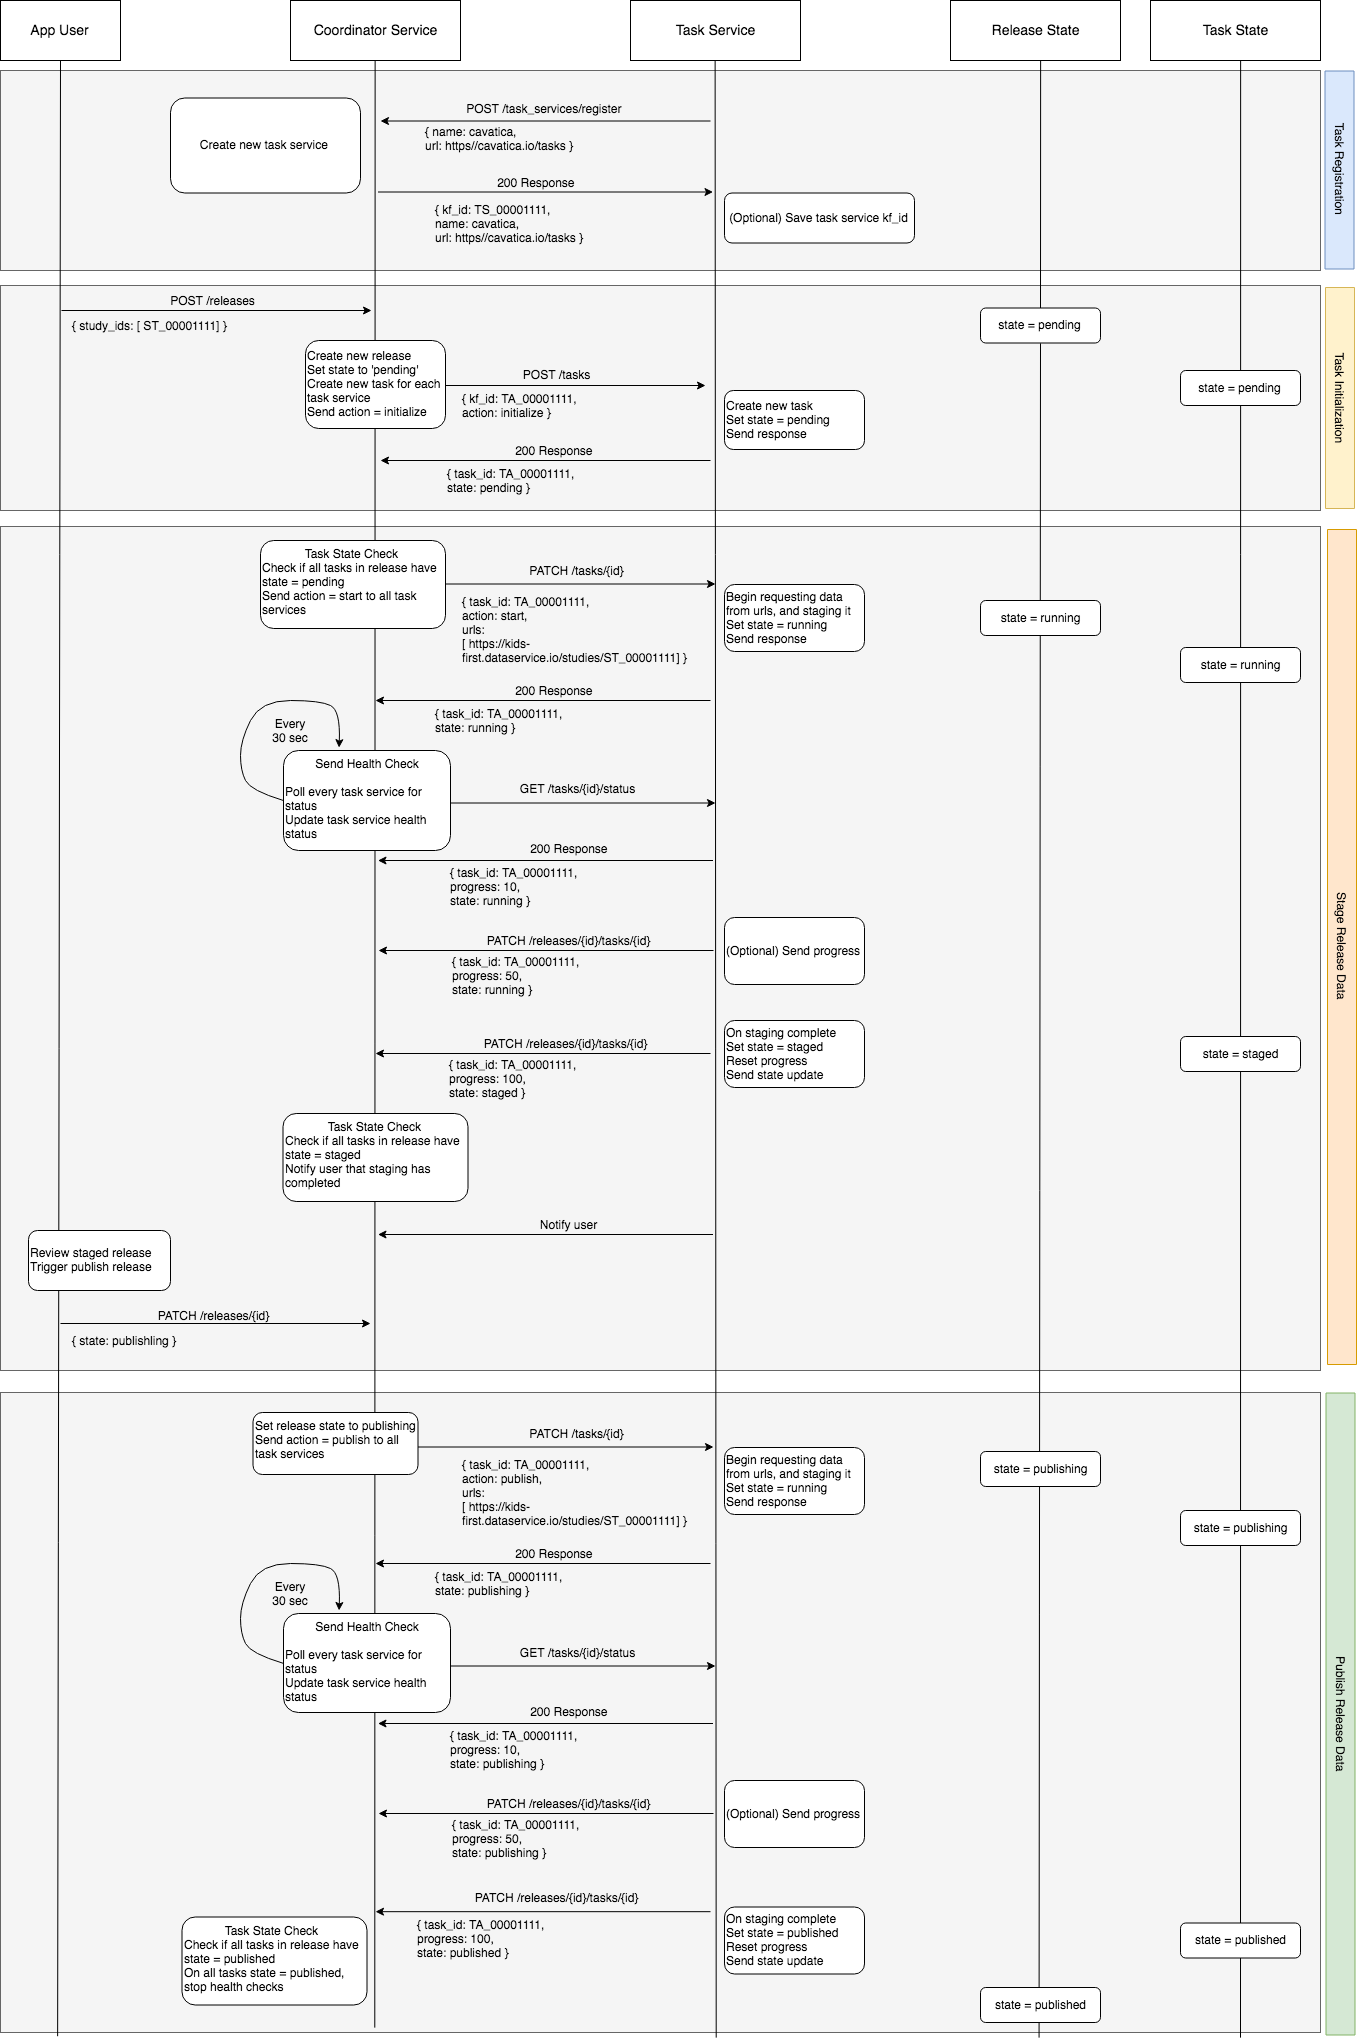
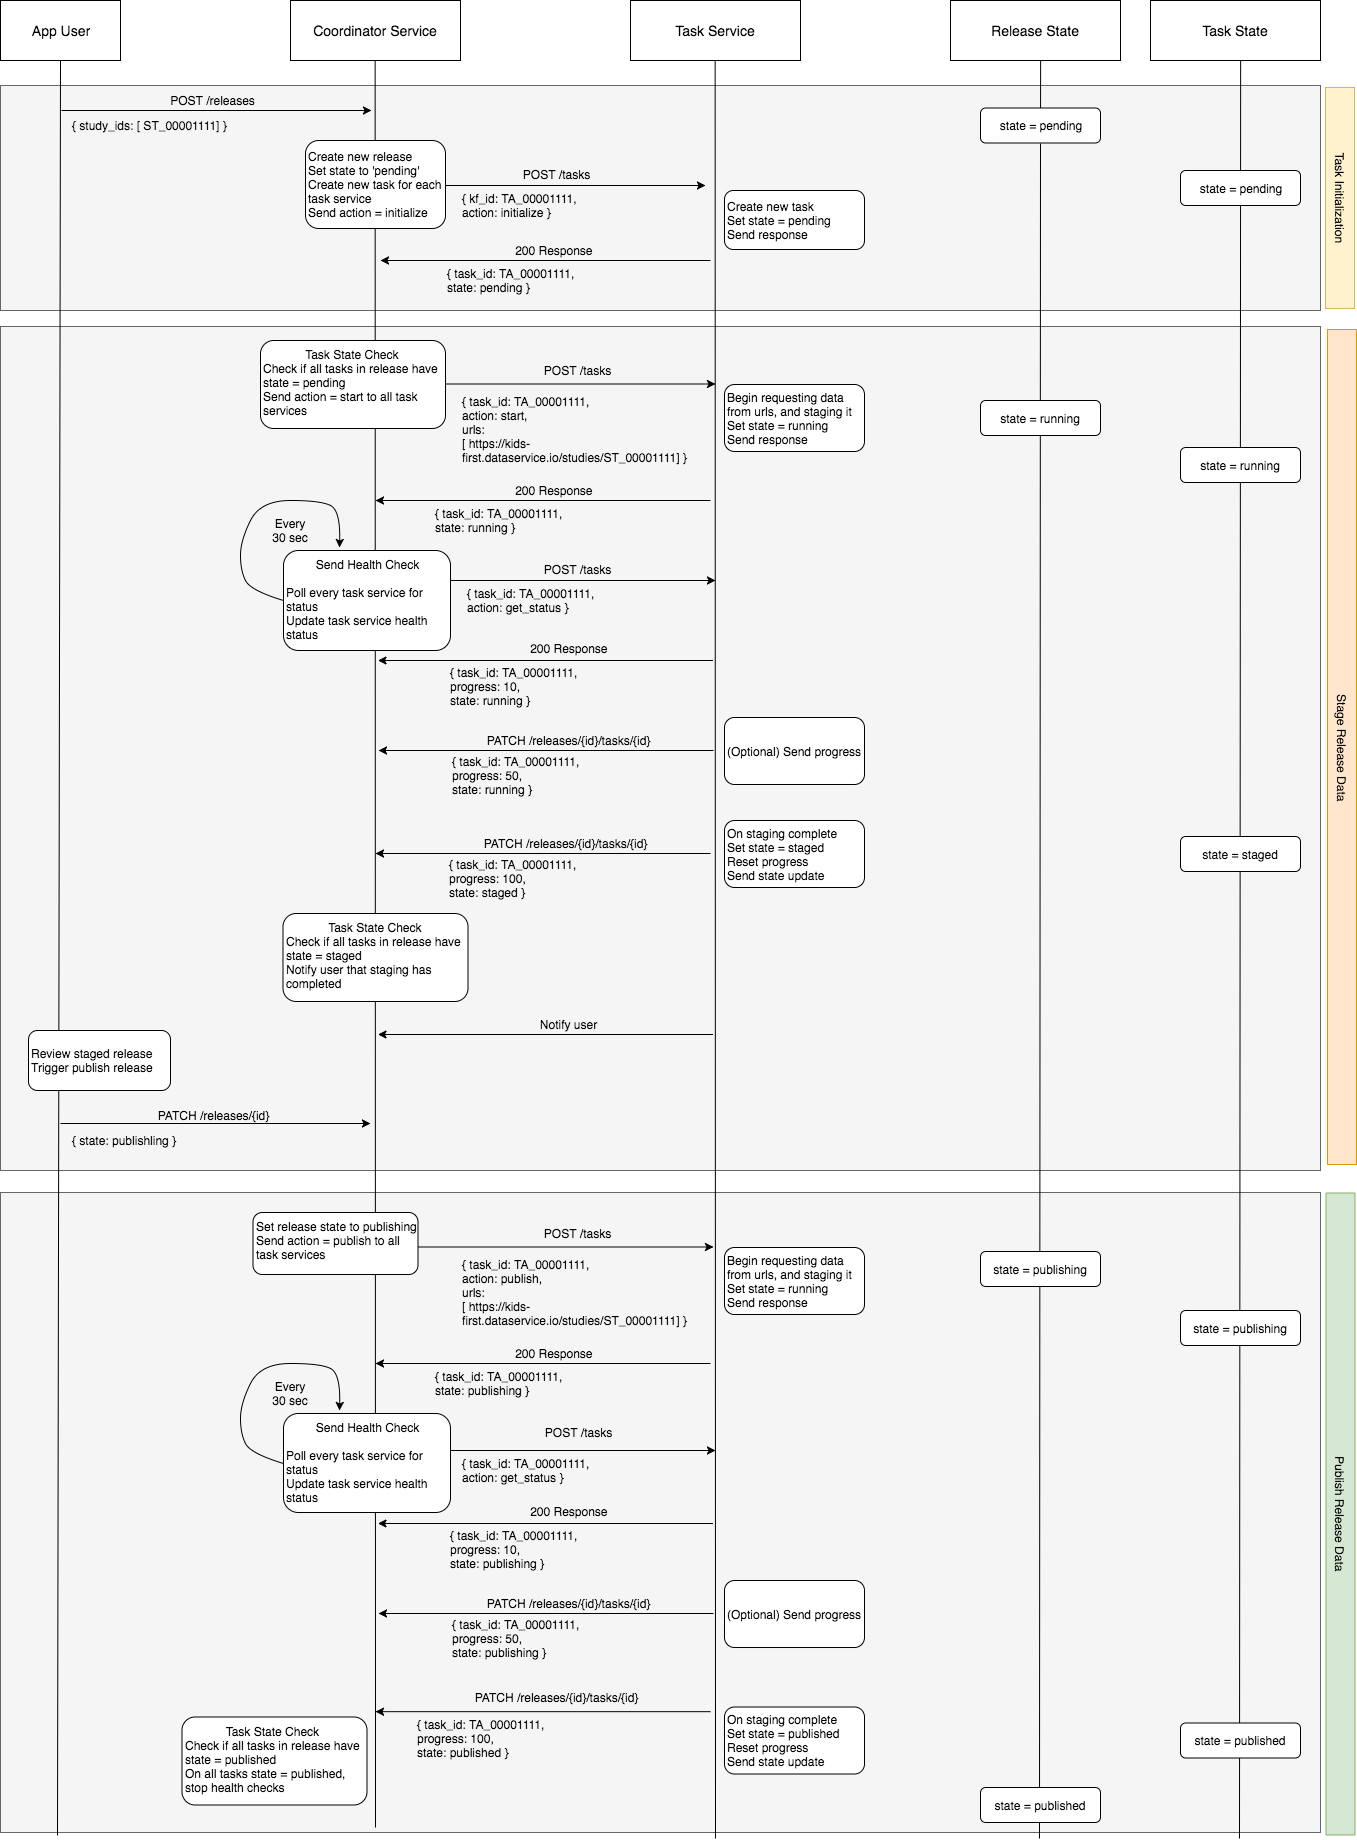
:fire: :wrench: Change to RPC, remove registration

diff --git a/README.md b/README.md
@@ -30,22 +30,20 @@ Sequence of Operations (Success Case)
 The diagram below illustrates the sequence of operations between the Coordinator service and a Task service for a
 successful release publish.
 
-Publishing a release consists of 4 steps:
+Publishing a release consists of 3 steps:
 
-1. Task service registration
-    * This step is only required one time
-    * A task service must register with the coordinator service so that the coordinator service knows which endpoint to communicate with.
-    * Additionally, the coordinator service will also store and update each task service's `health_status` throughout the publishing process.
-2. Task initialization
-    * The coordinator service will send a POST with `action=initialize` to each of the registered endpoints.
+1. Task initialization
+    * The coordinator service will send a POST with `action=initialize` to each task service's /tasks endpoint.
     * The coordinator service will wait until all task services have responded with `state=pending` and then send the next action
 2. Staging of release data
-    * The coordinator will send a POST with `action=start` along with the list of retrieval urls to each of the registered endpoints.
+    * The coordinator will send a POST with `action=start` along with the list of retrieval urls to each task service's /tasks endpoint.
     * The task services will begin requesting release data from the given urls and staging the data. The task services will set `state=running` during this step.
+    * The coordinator service will begin polling each task service for status/health via a POST with `action=get_status`. Any non-200 response will result in a failed release publish. If this happens the task service will send a POST to all task services with `action=cancel`.
     * The coordinator service will wait until all task services have responded with `state=staged` and then send the next action
 3. Publishing of release data
-    * The coordinator will send a POST with `action=publish` to each of the registered endpoints.
+    * Upon receiving a publish request from the user, the coordinator will send a POST with `action=publish` to each of the registered endpoints.
     * The task services will begin publishing the staged release data. The task services will set `state=publishing` during this step.
+    * The coordinator service will begin polling each task service for status/health via a POST with `action=get_status`. Any non-200 response will result in a failed release publish. If this happens the task service will send a POST to all task services with `action=cancel`.
     * Once all task services have responded with `state=published`, the publish is complete.
 
 ![Diagram](ReleaseCoordinatorFlow.png)
